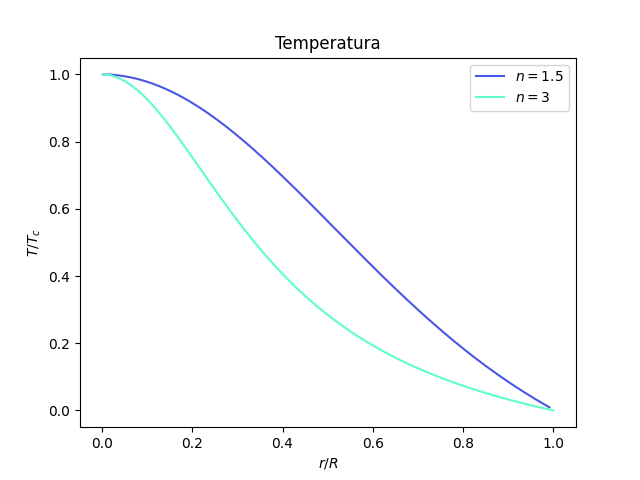
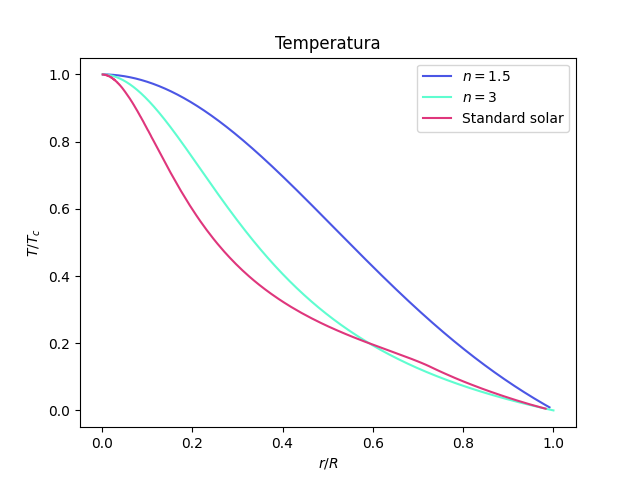
Parameter plots with solar

diff --git a/DN1/main_01.py b/DN1/main_01.py
@@ -153,6 +153,17 @@ xi_range2 = np.linspace(0.01, xi1_2, dims)
 theta2, dtheta2 = np.column_stack(odeint(lane_emden, theta_init, xi_range2))
 r2 = xi_to_r(xi_range2, xi1_2)
 
+# Standard solar model data inport
+data = np.column_stack(np.genfromtxt("bs05_agsop.txt", skip_header=1, skip_footer=4, usecols=(0, 1, 2, 3, 4)))
+m_solar = data[0]
+r_solar = data[1]
+T_solar = data[2]
+rho_solar = data[3]
+p_solar = data[4]
+T_solar = T_solar/T_solar[0]  # Normalize to T_c
+rho_solar = rho_solar/rho_solar[0]  # Normalize to \rho_c
+p_solar = p_solar/p_solar[0]  # Normalize to p_c
+c3 = "#DF367C"
 
 # Density plot
 rho = density_norm(theta, 1.5)
@@ -160,6 +171,7 @@ rho2 = density_norm(theta2, 3)
 
 plt.plot(r, rho, c=c1, label=r"$n = 1.5$")
 plt.plot(r2, rho2, c=c2, label=r"$n = 3$")
+plt.plot(r_solar, rho_solar, c=c3, label="Standard solar")
 
 plt.title("Gostota")
 plt.xlabel(r"$r/R$")
@@ -173,6 +185,8 @@ x2, m2 = mass_norm(theta2, xi_range2, 3, xi1_2)
 
 plt.plot(xi_to_r(x, xi1), m, c=c1, label=r"$n = 1.5$")
 plt.plot(xi_to_r(x2, xi1_2), m2, c=c2, label=r"$n = 3$")
+plt.plot(r_solar, m_solar, c=c3, label="Standard solar")
+
 
 plt.title("Masa")
 plt.xlabel(r"$r/R$")
@@ -186,6 +200,8 @@ p2 = pressure_norm(theta2, 3)
 
 plt.plot(r, p, c=c1, label=r"$n = 1.5$")
 plt.plot(r2, p2, c=c2, label=r"$n = 3$")
+plt.plot(r_solar, p_solar, c=c3, label="Standard solar")
+
 
 plt.title("Tlak")
 plt.xlabel(r"$r/R$")
@@ -199,6 +215,8 @@ T2 = temperature_norm(theta2, 3)
 
 plt.plot(r, T, c=c1, label=r"$n = 1.5$")
 plt.plot(r2, T2, c=c2, label=r"$n = 3$")
+plt.plot(r_solar, T_solar, c=c3, label="Standard solar")
+
 
 plt.title("Temperatura")
 plt.xlabel(r"$r/R$")
